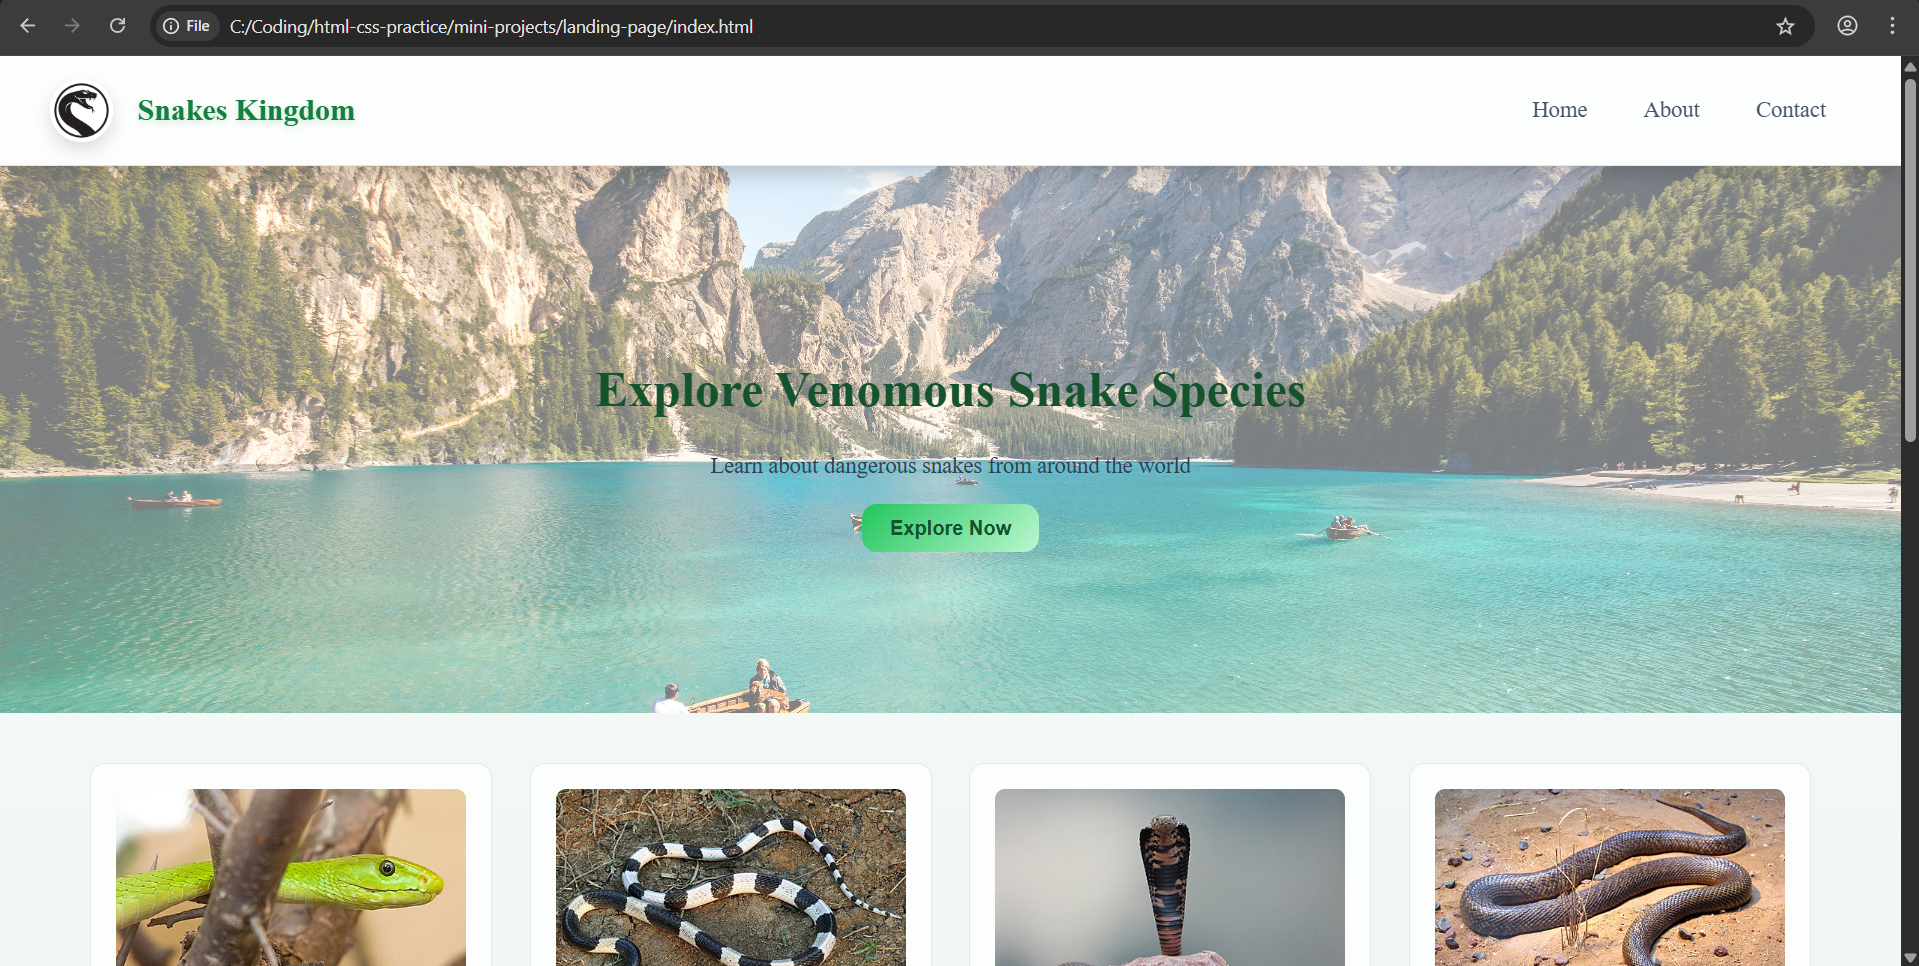
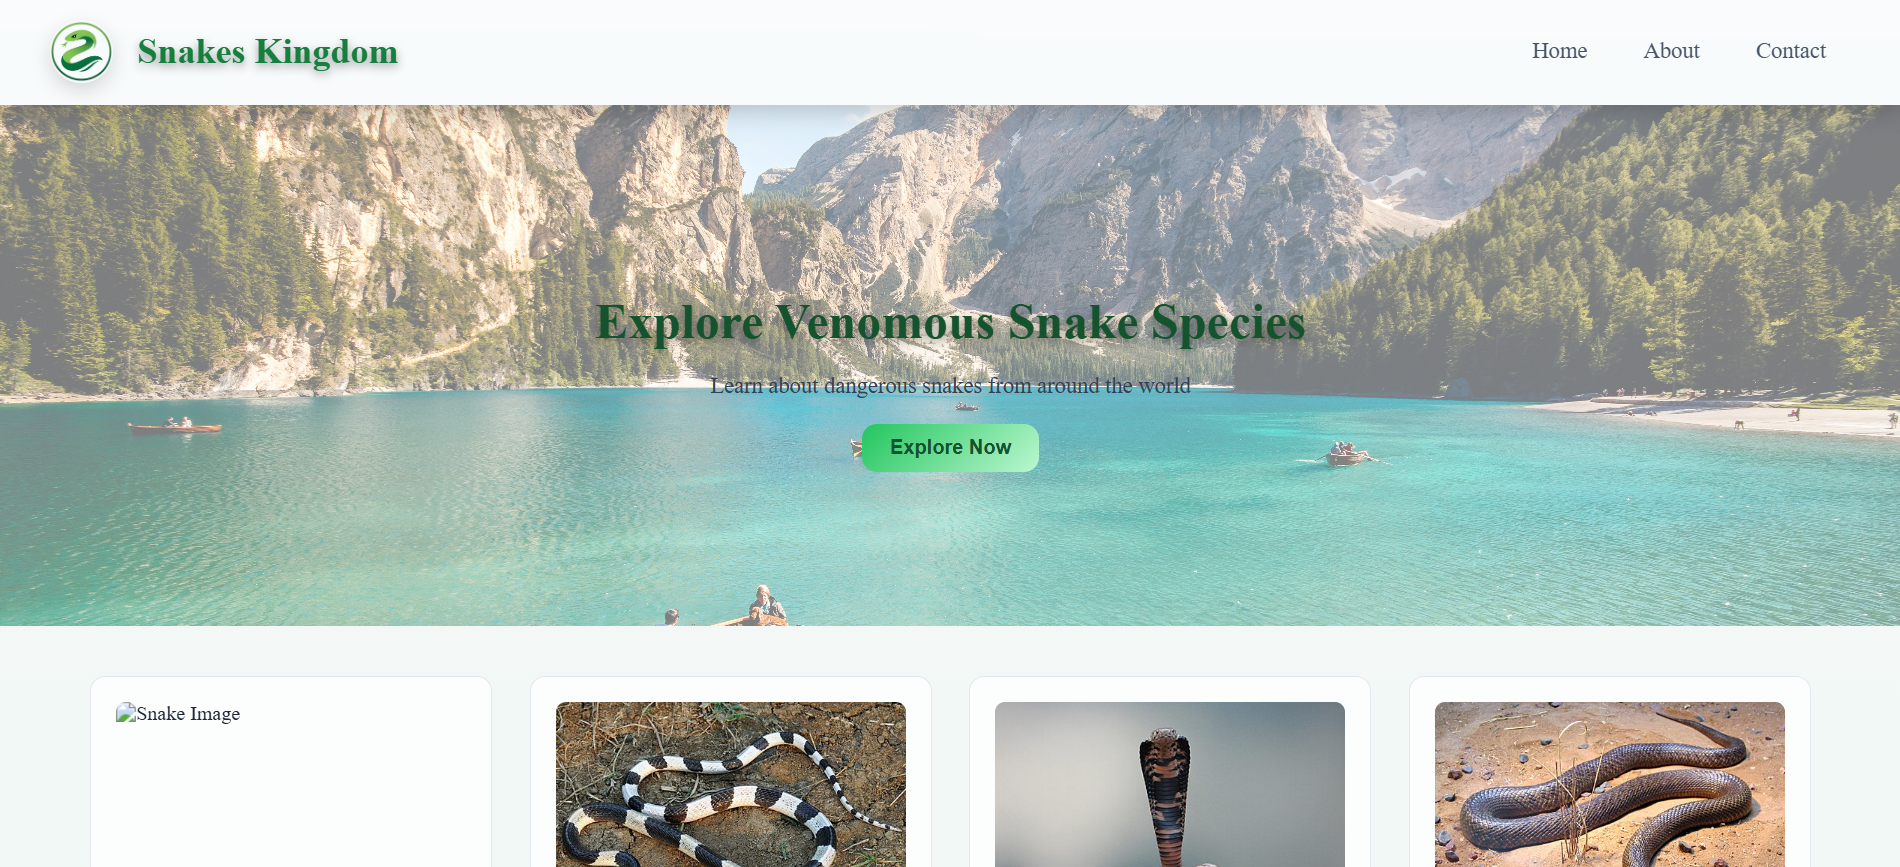
feat: complete projects section with clean and responsive UI

diff --git a/style.css b/style.css
@@ -505,6 +505,167 @@ body {
 }
 
 
+/* Projects Section CSS */
+
+.projects {
+    margin: 120px auto;
+    padding: 0 20px;
+    max-width: 1200px;
+    width: 100%;
+
+    display: flex;
+    flex-direction: column;
+}
+
+.projects h2 {
+    margin-bottom: 20px;
+
+    color: #7463F8;
+    font-size: 1.6rem;
+    font-weight: 700;
+    font-family: "Montserrat", sans-serif;
+
+    position: relative;
+}
+
+.projects h2::after {
+    content: "";
+    width: 80px;
+    height: 3px;
+    background: #7463F8;
+    position: absolute;
+    bottom: -8px;
+    left: 0;
+}
+
+.project-container {
+    padding: 20px 0;
+
+    display: grid;
+    grid-template-columns: repeat(3, 1fr);
+    gap: 30px;
+}
+
+.project-card {
+    width: 100%;
+    height: 100%;
+
+    background: rgba(116, 99, 248, 0.03);
+    box-shadow: 0 15px 40px rgba(0, 0, 0, 0.2);
+    backdrop-filter: blur(10px);
+    border: 1px solid rgba(255, 255, 255, 0.1);
+    border-radius: 15px;
+
+    display: flex;
+    flex-direction: column;
+    justify-content: center;
+
+    position: relative;
+    overflow: hidden;
+    cursor: pointer;
+
+    transition: all 0.3s ease;
+}
+
+.project-card:hover {
+    background: rgba(116, 99, 248, 0.08);
+    box-shadow: 0 15px 40px rgba(0, 0, 0, 0.4);
+    backdrop-filter: blur(10px);
+    border: 1px solid rgba(116, 99, 248, 0.6);
+    transform: translateY(-4px);
+}
+
+.project-card img {
+    margin-bottom: 10px;
+    width: 100%;
+    height: 160px;
+    object-fit: cover;
+
+    border-radius: 15px;
+    border-bottom-right-radius: 0;
+    border-bottom-left-radius: 0;
+
+    transition: 0.3s ease;
+}
+
+.project-card img:hover {
+    transform: scale(1.05);
+}
+
+.project-info {
+    padding: 20px;
+
+    display: flex;
+    flex-direction: column;
+    justify-content: center;
+
+    flex-grow: 1;
+}
+
+.project-card h3 {
+    margin-bottom: 10px;
+
+    font-family: "Montserrat", sans-serif;
+    color: #7463F8;
+    text-shadow: 0 3px 8px rgba(0, 0, 0, 0.4);
+
+    flex-grow: 1;
+}
+
+.project-card p {
+    margin-bottom: 10px;
+
+    font-size: 0.8rem;
+    font-family: "Montserrat", sans-serif;
+    color: #A8B2FF;
+    line-height: 1.6;
+
+    flex-grow: 2;
+}
+
+.project-links {
+    display: flex;
+    justify-content: flex-start;
+    align-items: center;
+    gap: 10px;
+
+    flex-grow: 2;
+}
+
+.project-links a {
+    display: inline-block;
+}
+
+.btn {
+    margin-top: 10px;
+    padding: 10px 20px;
+
+    border-radius: 10px;
+
+    cursor: pointer;
+    transition: all 0.3s ease;
+}
+
+.primary {
+    background: #7463F8;
+    color: white;
+    border: none;
+}
+
+.secondary {
+    background: transparent;
+    border: 1px solid #7463F8;
+    color: #7463F8;
+}
+
+.primary:hover {
+    box-shadow: 0 0 12px rgba(116, 99, 248, 0.6);
+}
+
+.secondary:hover {
+    background: rgba(116, 99, 248, 0.1);
+}
+
 /* Skills Section CSS */
 
 .skill-section {

diff --git a/index.html b/index.html
@@ -257,6 +257,70 @@
         </div>
     </section>
 
+    <!-- Projects Section ⏬ -->
+    <section class="projects" id="projects">
+        <h2>Projects</h2>
+        <div class="project-container">
+
+            <div class="project-card">
+                <img src="assets/images/project1.png" alt="My Project">
+
+                <div class="project-info">
+                    <h3>Glass UI Landing Page</h3>
+                    <p>Modern glassmorphism landing page built with HTML and CSS.</p>
+
+                    <div class="project-links">
+                        <a href="#" target="_blank">
+                            <button class="btn primary">View Project</button>
+                        </a>
+
+                        <a href="#" target="_blank">
+                            <button class="btn secondary">View Code</button>
+                        </a>
+                    </div>
+                </div>
+            </div>
+
+            <div class="project-card">
+                <img src="assets/images/project3.png" alt="My Project">
+
+                <div class="project-info">
+                    <h3>Snake Explorer</h3>
+                    <p>Responsive landing page showcasing venomous snake species with engaging design.</p>
+
+                    <div class="project-links">
+                        <a href="https://arjuntelange.github.io/snake-explorer/" target="_blank">
+                            <button class="btn primary">View Project</button>
+                        </a>
+
+                        <a href="https://github.com/arjuntelange/snake-explorer/blob/main/index.html" target="_blank">
+                            <button class="btn secondary">View Code</button>
+                        </a>
+                    </div>
+                </div>
+            </div>
+
+            <div class="project-card">
+                <img src="assets/images/project2.png" alt="My Project">
+
+                <div class="project-info">
+                    <h3>Sunrise Animation</h3>
+                    <p>Creative CSS animation project featuring sunrise motion effects.</p>
+
+                    <div class="project-links">
+                        <a href="#" target="_blank">
+                            <button class="btn primary">View Project</button>
+                        </a>
+
+                        <a href="#" target="_blank">
+                            <button class="btn secondary">View Code</button>
+                        </a>
+                    </div>
+                </div>
+            </div>
+        </div>
+    </section>
+
     <!-- Skills Section ⏬ -->
     <section class="skill-section" id="skills">
         <h2>What I Do</h2>
